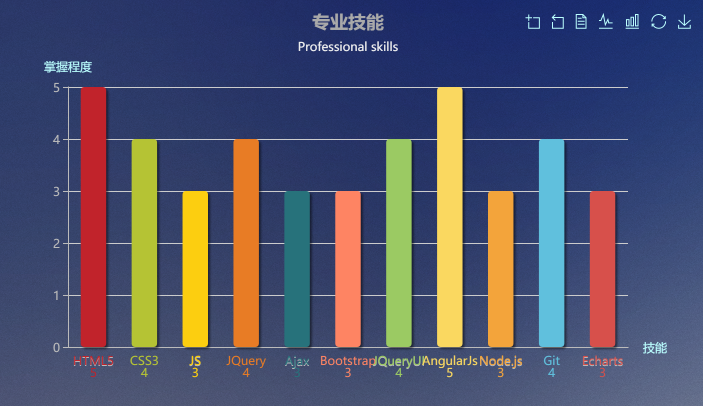
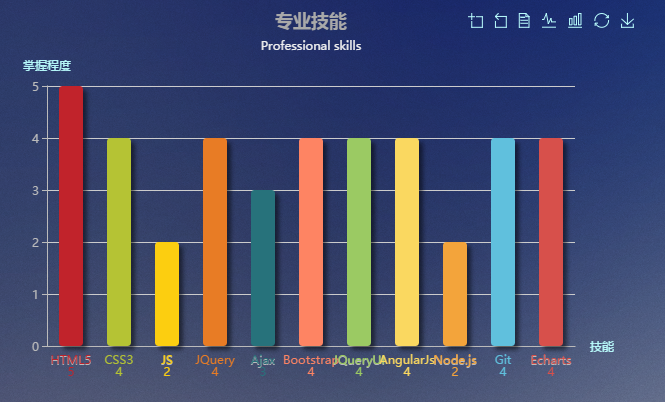
file

diff --git a/resume.html b/resume.html
@@ -91,17 +91,20 @@
             <h1>高艳斐</h1>
             <p>求职目标：WEB前端工程师</p><br>
             <ul>
-                <li><img src="images/年龄.png" alt="年龄">:21岁</li>
-                 <li><img src="images/地点.png" alt="地点">:河南省登封市</li>
-                  <li><img src="images/电话.png" alt="电话">:17839196327</li>
-                   <li><img src="images/邮箱.png" alt="邮箱">:2636406932@qq.com</li>
-                    <li><img src="images/网站.png" alt="网站">:https://firm66.github.io</li>
-<!--                    <li><img src="images/github.png" alt="github">:https://github.com/firm66</li>-->
+                <li><img src="images/年龄.png" alt="年龄">:
+               <a href="javascript:void(0)">21岁</a></li>
+                <li><img src="images/地点.png" alt="地点">:
+                <a href="javascript:void(0)">河南省郑州市</a></li>
+                <li><img src="images/电话.png" alt="电话">:
+                 <a href="javascript:void(0)">17839196327</a></li>
+                <li><img src="images/邮箱.png" alt="邮箱">:
+                <a href="javascript:void(0)">2636406932@qq.com</a></li>
+                <li><img src="images/网站.png" alt="网站">:
+                <a href="https://firm66.github.io/" title="firm66的个人网站">https://firm66.github.io</a></li>
+                <li><img src="images/github.png" alt="github">:
+                <a href="https://github.com/firm66/firm66.github.io" title="github demo">github地址</a></li>
             </ul>
-        </div>
-       
-        
-            
+        </div>   
       
         <div  class="col-md-9  col-md-offset-0" id="resume_right">
 <div id="section2" class="container-fluid">
@@ -164,7 +167,7 @@
            	<div class="media">
 				 <a href="#" class="pull-left"><img src="images/skills.jpg" class="media-object" alt='' /></a>
 				<div class="media-body">  <!--echarts图表-->
-				 <div id="section3_echarts" style="width:700px;height:400px;"></div>
+				 <div id="section3_echarts" style="width:660px;height:400px;"></div>
 				</div>
 			</div>
          </div>
@@ -299,13 +302,13 @@
 </div>
         </div> 
         </div>
-        
+        <div class="row clearfix">
   <div class="col-md-12 footer">
           <div class="col-md-6 col-md-offset-3">
           关于本站 | 版权信息 | 留言反馈 | 帮助中心
             <br> Copyright&copy;2016 firm66. All Rights Reserved. 
     </div>
-    </div>
+    </div></div>
 	<script src="js/jquery-2.1.4.js" type="text/javascript" charset="utf-8"></script>
 	<script src="js/bootstrap.min.js" type="text/javascript" charset="utf-8"></script>
 	<script type="text/javascript" src="js/echarts.js" charset="utf-8"></script>

diff --git a/css/resume.css b/css/resume.css
@@ -1,9 +1,13 @@
-p,h1,h2,h3,h4,h5,h6{padding:0;margin:0;}
+html,body, div, dl, dt, dd, ul, ol, li, h1, h2, h3, h4, h5, h6, pre, form, p,span, blockquote, th, td, textarea, input { 
+    margin:0;
+    padding:0;
+}
 ul,li{list-style-type: none;}
-img{border:none;}
+img{border:0;}
  body {
       position: relative; 
       font-size: 16px;
+     font-weight: normal;
       font-family:"microsoft yahei", Helvetica, Verdana, sans-serif;
   }  /*设置滚动监听*/
 .resumeheader1 .navbar-brand,.resumeheader2 .navbar-brand{  /*设置头部*/ 
@@ -28,6 +32,10 @@ img{border:none;}
  .resumeheader2 .navbar-nav > .active > a:hover{
  	background:rgba(0,0,0,0.3);/*颜色叠加*/
  }
+div.clearfix{  /*整体宽度不会超出*/
+	margin-left:0px;
+    margin-right:0px;
+}
   #section1 {
       height:798px;
       background:url(../images/9PE.png) no-repeat;
@@ -75,9 +83,8 @@ img{border:none;}
 }
 #resume_left{
     background: url(../images/resume_left.jpg) no-repeat;
-/*    background-size:100%;*/
-    /*
-    height:2000px; 
+/*    background-size:100%;
+      height:2000px; 
 */
 }
 #resume_left img.person{
@@ -95,9 +102,13 @@ img{border:none;}
     color:#000;
     text-shadow: 0px 0px 8px #bfe1f1;
 }
-#resume_left ul{
+#resume_left ul a{
+    color:#333;
     font-size: 20px;
     line-height:40px;
+}
+#resume_left ul a:hover{
+    color:dimgrey;
 }
 #resume_left ul img,#section2 h3.panel-title img,#section3 h3.panel-title img,#section4 h3.panel-title img,#section5 h3.panel-title img,#section6 h3.panel-title img{   /*图标*/
     width:24px; 
@@ -253,6 +264,13 @@ h3.panel-title{
 #resume_left h1{
    margin-top:20px;
 }
+#resume_left h1 #resume_left p,#resume_left ul {
+	margin-left:30%;
+}
+#resume_left ul {
+   font-size: 26px;
+    line-height:40px;
+}
 #section3 .media-body #section3_echarts{
 	display:none;
 }
@@ -263,16 +281,8 @@ h3.panel-title{
 }
 }
 @media screen and (min-width:993px) and  (max-width:1200px) {
-    
 #resume_left ul{
-    margin-left:-15px;
+     margin-left:-15px;
       font-size: 16px;  
     }
-#resume_left{
-    background: url(../images/resume_left.jpg) no-repeat;
-/*
-    background-size:100%;
-    height:2370px; 
-*/
-}
 }

diff --git a/js/resume.js b/js/resume.js
@@ -108,7 +108,7 @@ var myChart = echarts.init(document.getElementById('section3_echarts'));
                   barBorderRadius: 4,  //  
                 }
             },
-            data: [5,4,3,4,3,3,4,5,3,4,3],
+            data: [5,4,2,4,3,4,4,4,2,4,4],
             animationDuration: 3000, //初始动画时长
         }
     ]

diff --git a/README.md b/README.md
@@ -1,2 +1,7 @@
-# firm66.github.io
-firm66的个人网站
+### firm66的个人网站
+---
+1. 此网站主要运用BootStrap框架，并且用了Angular.Js中的路由，Echarts做图表，JQuery中的动画效果，欢迎大家在留言版上留言，这是v_2.0.0版本;
+
+2. 不足：动态效果做的不够好，页面布局不够完美
+
+3. 欢迎点星星，就是右上角的Star
